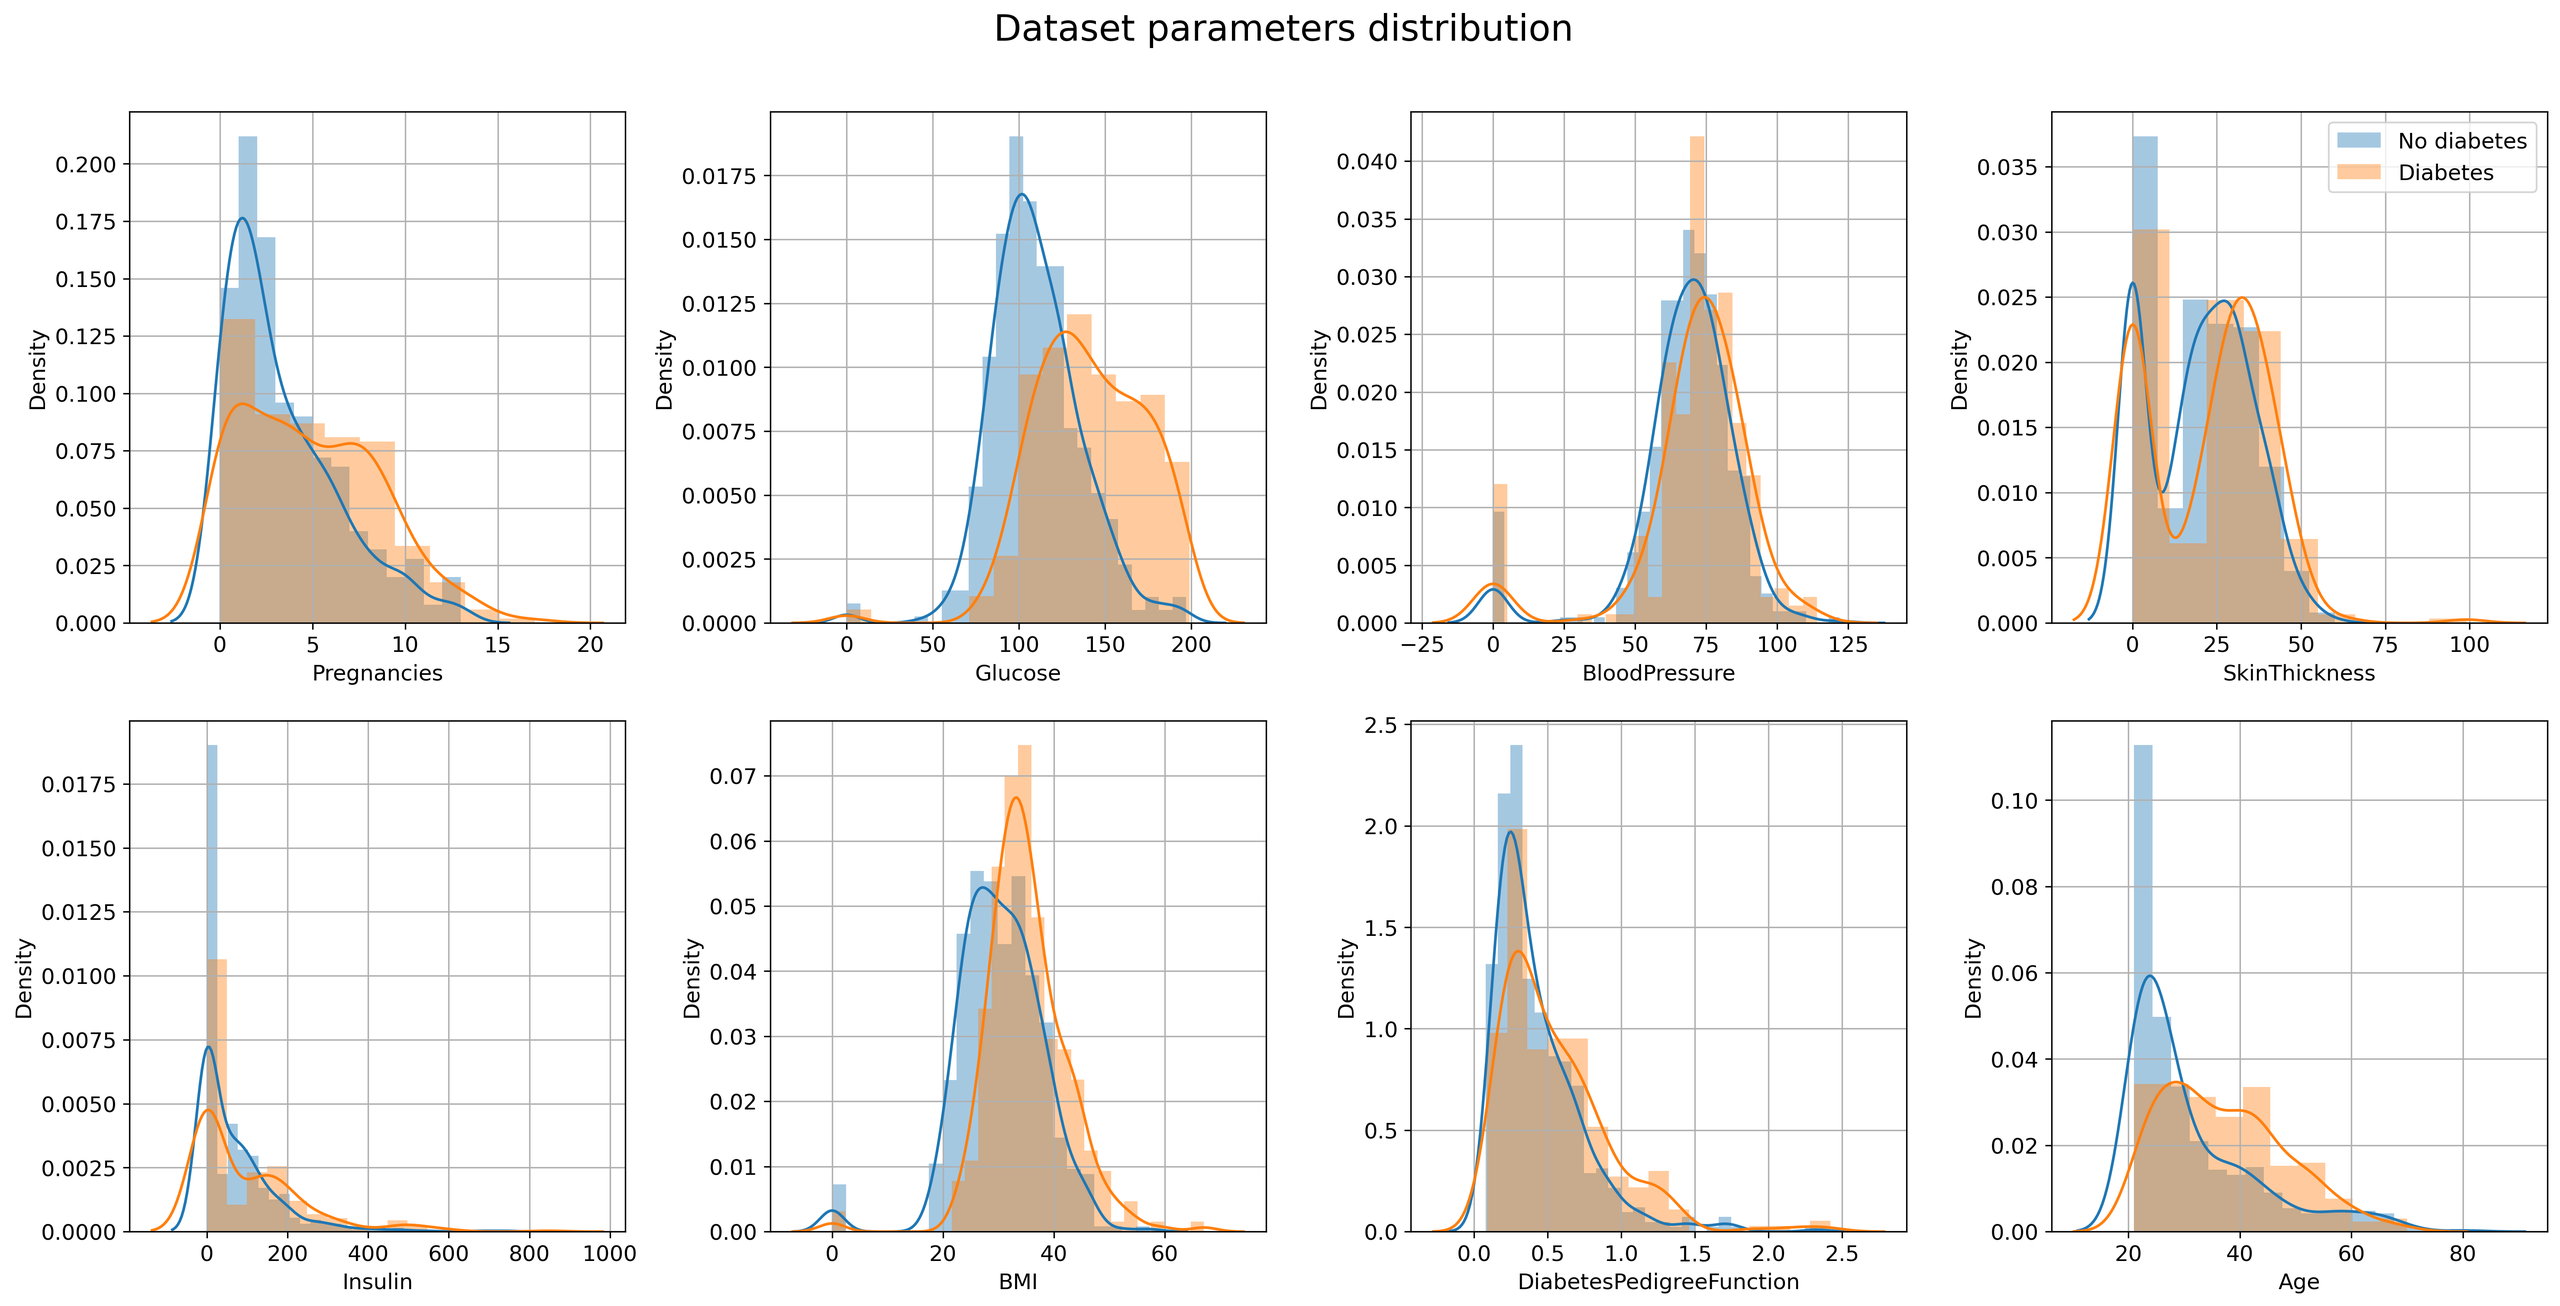
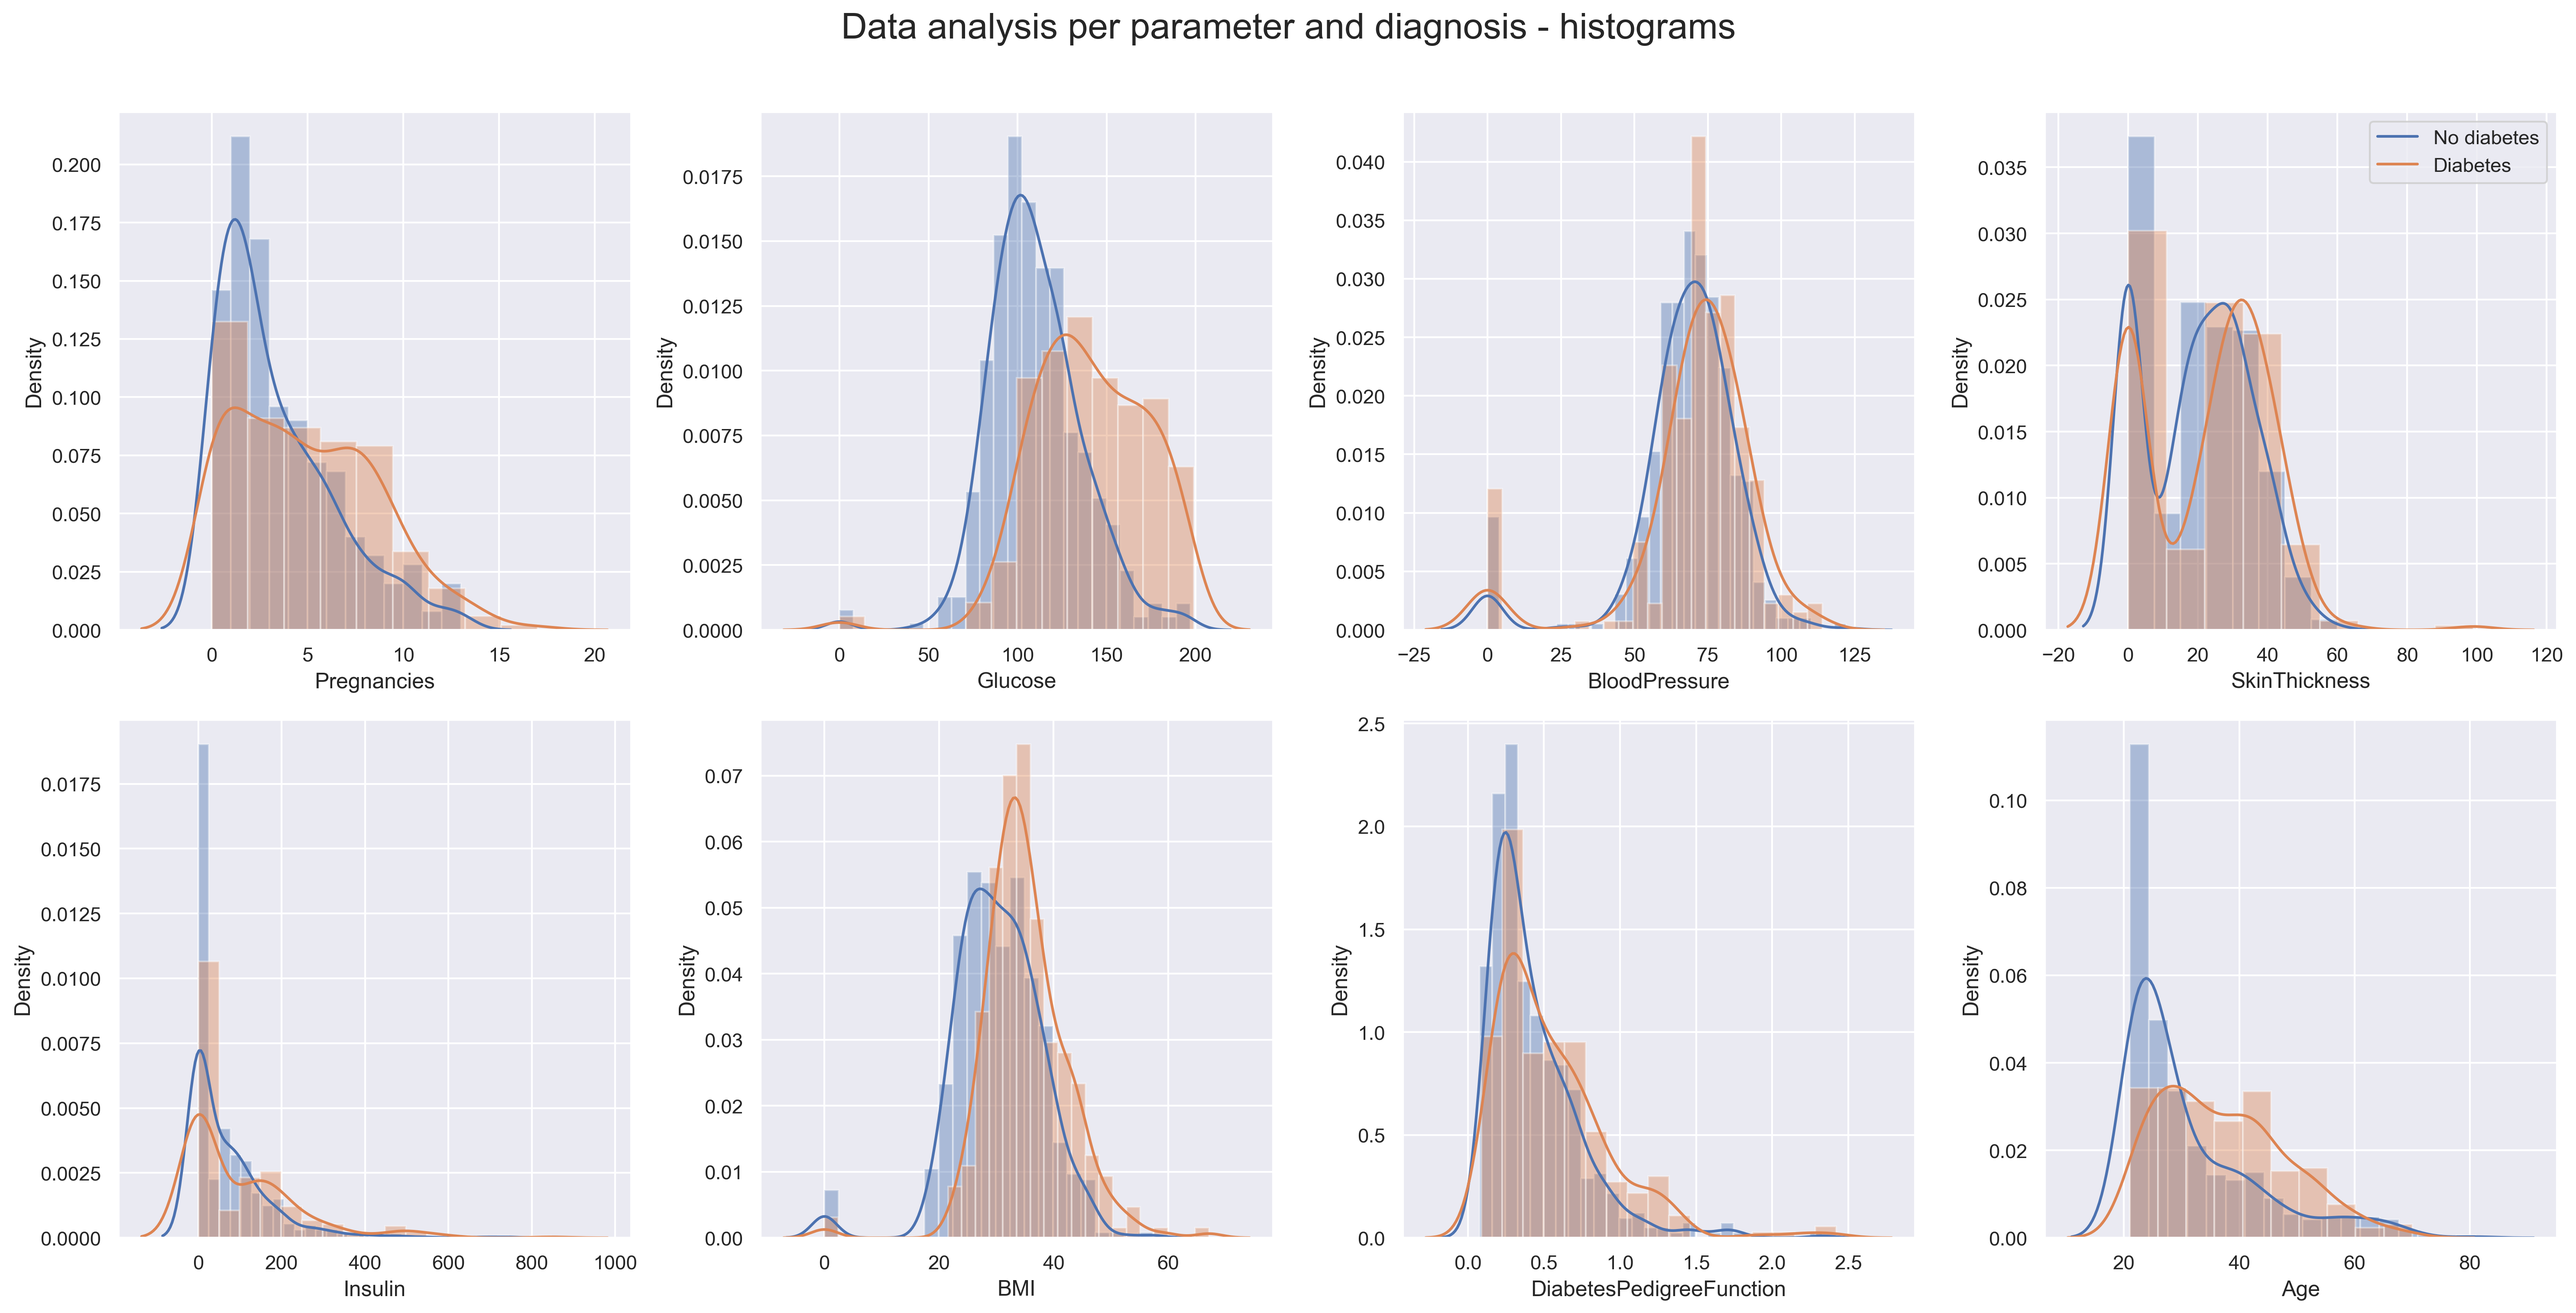
corr matrix, boxplots, violinplots, conclusions

diff --git a/Diabetes.py b/Diabetes.py
@@ -12,6 +12,7 @@ import seaborn as sns
 import warnings
 warnings.filterwarnings('ignore')
 
+#import diabetes.csv file
 stats = pd.read_csv('diabetes.csv')
 
 """
@@ -61,17 +62,17 @@ high_bloodpressure_diabetes = len(stats[(stats.BloodPressure>70) & (stats.Outcom
 """
 DATA VISUALIZATION
 """
-
-stats.Outcome = stats.Outcome.astype('category')
 #col = list(stats.columns[0:8])
 plt.rcParams['axes.grid'] = True
 plt.rcParams.update({'font.size': 12})
+sns.set(style="darkgrid")
 
-# STUDY RELATIONS BETWEEN PARAMETERS
+# Multi-plot grid
 # Histograms to study data distribution per parameter
-# Linear plots to see relationships between parameters
+# Lineplots and probability density function (KDE) plots
+# to study relationships between parameters
 
-plt.figure(1)
+plt.figure()
 g = sns.PairGrid(stats, hue="Outcome")
 g.map_diag(sns.histplot, kde=True)
 g.map_upper(sns.kdeplot, fill=True)
@@ -79,66 +80,69 @@ g.map_lower(sns.scatterplot)
 blue_patch = mpatches.Patch(color='blue', label='No diabetes')
 red_patch = mpatches.Patch(color='orange', label='Diabetes')
 g.add_legend(loc="upper right", handles=[blue_patch, red_patch])
-plt.suptitle("Dataset parameters distribution and relationships", y=1.01, fontsize=20)
-
+plt.suptitle("General data analysis - per parameter and between parameters", y=1, fontsize=18)
 plt.savefig("general_analysis.png", dpi=300, bbox_inches="tight");
 plt.show()
 
-"""
-From histograms we see that diabetes is mainly related with:
-- High glucose levels
+# Correlation matrix
+plt.figure()
+matrix = stats.corr().round(1)
+sns.heatmap(matrix, annot=True)
+plt.title('Data Correlation Matrix', fontsize=18)
+plt.savefig("corr_matrix.png", dpi=300, bbox_inches="tight");
+plt.show()
 
-From linear plots we see linear relationships between: 
-- BMI and Skin Thickness
-- Glucose and Insulin
-"""
-
-# Subplots with histograms (comparison for the different parameters between diabetes and no diabetes)
 col=stats.columns
+stats.Outcome = stats.Outcome.astype('category')
 
-plt.figure(2)
-fig2, axes2 = plt.subplots(nrows=2, ncols=4, figsize=(20,10))
+# Histograms
+plt.figure()
+fig2, axes2 = plt.subplots(nrows=4, ncols=2, figsize=(20,10))
 axes2 = fig2.add_subplot()
 plt.tight_layout()
 for i in range(len(col)-1):
-    plt.subplot(2,4,i+1)
-    sns.distplot(stats[stats.Outcome == 0][col[i]], label='No diabetes')
-    sns.distplot(stats[stats.Outcome == 1][col[i]], label='Diabetes')       
-plt.subplot(2,4,4).legend(loc='upper right')
-plt.suptitle("Dataset parameters distribution", y=1.01, fontsize=20)
+    for outcome in stats.Outcome.cat.categories:
+        plt.subplot(2,4,i+1)
+        sns.distplot(stats[stats.Outcome == outcome][col[i]])
+plt.subplot(2,4,4).legend(['No diabetes', 'Diabetes'], loc='upper right')
+plt.suptitle("Data analysis per parameter and diagnosis - histograms", y=1, fontsize=18)
 fig2.tight_layout(pad=1.2)
-plt.savefig("distribution.png", dpi=300, bbox_inches="tight");
+plt.savefig("histograms.png", dpi=300, bbox_inches="tight");
 plt.show()
 
-"""
-From histograms we see that diabetes is mainly related with:
-- High glucose levels
-"""
-
-"""
+# Boxplots 
 plt.figure(4)
-fig4, ax4 = plt.subplots(nrows=4, ncols=2, figsize=(10,20))
+fig4, ax4 = plt.subplots(nrows=2, ncols=4, figsize=(12,10))
 ax4 = fig4.add_subplot()
 plt.tight_layout()
-for i in range(len(col)):
-    plt.subplot(4,2,i+1)
-    sns.boxplot(data=stats, x='Outcome', y=col[i])       
+for i in range(len(col)-1):
+    plt.subplot(2,4,i+1)
+    sns.boxplot(data=stats, x='Outcome', y=col[i])
+    plt.xticks([0, 1], ['No diabetes', 'Diabetes'])
+    plt.xlabel('Diagnosis')    
+plt.suptitle("Data analysis per parameter and diagnosis - boxplots", y=1, fontsize=18)
+fig4.tight_layout(pad=1.2)
+plt.savefig("boxplots.png", dpi=300, bbox_inches="tight");
 plt.show(fig4)
 
+# Violinplots
 plt.figure(5)
-fig5, ax5 = plt.subplots(nrows=4, ncols=2, figsize=(10,20))
+fig5, ax5 = plt.subplots(nrows=2, ncols=4, figsize=(12,10))
 ax5 = fig5.add_subplot()
 plt.tight_layout()
-for i in range(len(col)):
-    plt.subplot(4,2,i+1)
-    sns.violinplot(data=stats, x='Outcome', y=col[i])       
-plt.show(5)
-"""
+for i in range(len(col)-1):
+    plt.subplot(2,4,i+1)
+    sns.violinplot(data=stats, x='Outcome', y=col[i]) 
+    plt.xticks([0, 1], ['No diabetes', 'Diabetes'])
+    plt.xlabel('Diagnosis') 
+plt.suptitle("Data analysis per parameter and diagnosis - violinplots", y=1, fontsize=18)
+fig5.tight_layout(pad=1.2)
+plt.savefig("violinplots.png", dpi=300, bbox_inches="tight");      
+plt.show(fig5)
 
-# STUDY GLUCOSE
+# STUDYING GLUCOSE
 # Histogram
-"""
-plt.figure(2)
+plt.figure(7)
 list1 = list()
 mylabels=list()
 for outcome in stats.Outcome.cat.categories:
@@ -148,29 +152,25 @@ for outcome in stats.Outcome.cat.categories:
 mylabels[0] = 'No diabetes'
 mylabels[1] = 'Diabetes'
 h = plt.hist(list1, bins=30, stacked=True, label = mylabels)
-plt.legend()
-plt.title('Glucose distribution')
+plt.legend(loc="upper left")
+plt.title('Blood glucose levels per diagnosis')
+plt.savefig("glucose_distribution.png", dpi=300, bbox_inches="tight");  
 plt.show(h)
 # most people has glucose~100
 
-# Glucose expressed in terms of age
-# Linear model plot
-plt.figure(3)
-vis1 = sns.lmplot(data=stats, x='Age', y='Glucose', hue='Outcome', size=5)
-plt.title('Glucose VS Age')
-plt.show(vis1)
-# The higher the age, the higher the glucose levels.
-# The diabetes outcome seems to be related with higher glucose levels
 
-# Kdeplot - heatmap
-plt.figure(4)
-k1=sns.kdeplot(stats.Age, stats.Glucose, shade=True, shade_lowest=False, cmap='Reds')
-k1b=sns.kdeplot(stats.Age, stats.Glucose, shade=True, cmap='Reds')
-plt.title('Glucose VS Age')
-plt.show()
-# The higher the age, the higher the glucose levels.
 """
+CONCLUSIONS
 
+COMPARING PARAMETERS we see linear relationships between: 
+- Insulin and Skin Thickness
+- BMI and Skin Thickness
+- Glucose and Insulin
+
+STUDYING THE RELATIONSHIP BETWEEN DIABETES AND EACH PARAMETER, 
+we can conclude that diabetes is mainly related with:
+- High glucose levels
+"""
 
 
 
